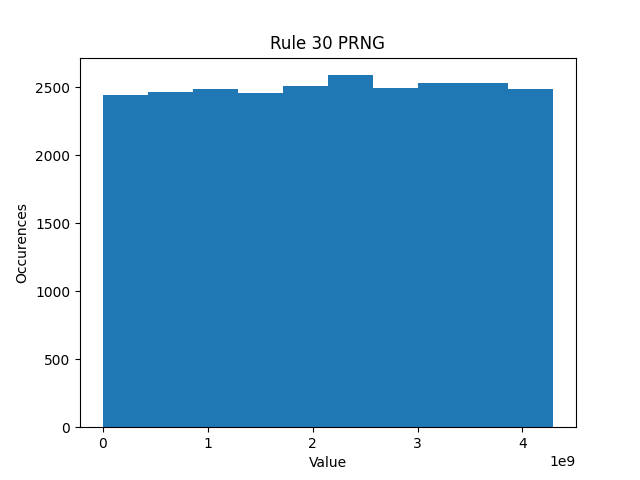
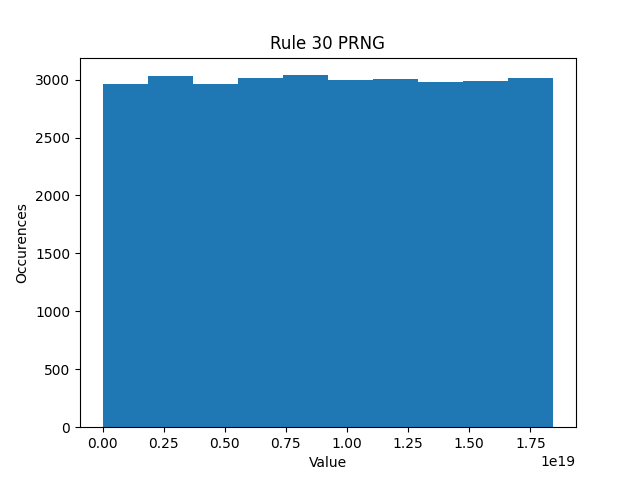
Fix 64 bit graph

diff --git a/src/Rule30.c b/src/Rule30.c
@@ -9,7 +9,7 @@
 // For best performance compile with:
 // gcc -o PRNG Rule30.c -O2 -finline-functions
 
-// For abitrary state sizes, will need an array of N booleans, this means 8 bits per cell (assuming each is a boolean)
+// For abitrary state sizes, will need an array of N booleans, this means 64 bits per cell (assuming each is a boolean)
 // If we instead use an usigned long long, we can get 1 bit per cell and use bitwise operations to update the state
 
 // Helper macros
@@ -18,7 +18,7 @@
 
 // Constants
 #define EPOCHS  5000UL
-#define BITS    1
+#define BITS    64
 #define OUT     true
 #define MODE    "a"
 
@@ -69,7 +69,7 @@ int main(void) {
     for (size_t i = EPOCHS; --i;) {
         uint64_t x = Generate_64(&rand, BITS);
 #if OUT
-        fprintf(outfile, "%lu\n", x);
+        fprintf(outfile, "%llu\n", x);
 #endif
     }
     t = clock() - t;

diff --git a/src/Analyze.py b/src/Analyze.py
@@ -1,12 +1,10 @@
 import random
-import numpy as np
-from scipy.spatial import distance
 import matplotlib.pyplot as plt
 
 with open("out.txt", 'r') as f:
-    data = np.array([float(x) for x in f.read().split('\n') if x][:-452])
-    box = int(np.sqrt(data.shape[0]))
-    data = data.reshape(box, box)
-    plt.imshow(data, cmap = "binary")
-
+    data = [float(x) for x in f.read().split('\n') if x]
+    plt.title("Rule 30 PRNG")
+    plt.xlabel("Value")
+    plt.ylabel("Occurences")
+    plt.hist(data)
     plt.show()
